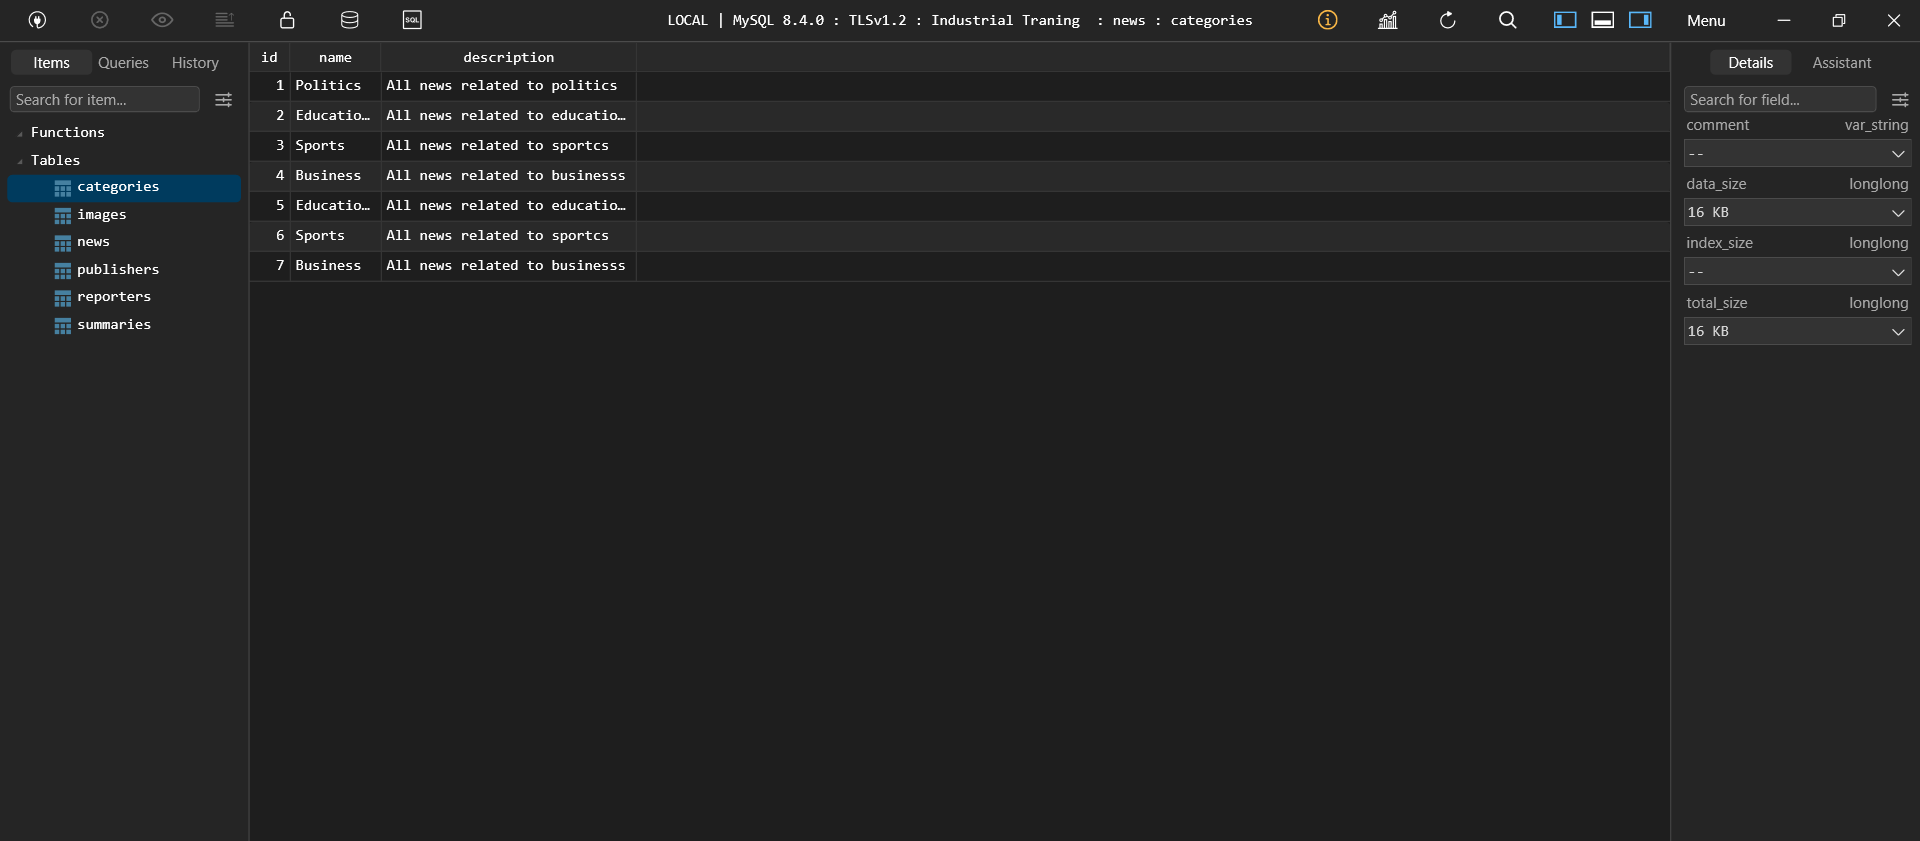
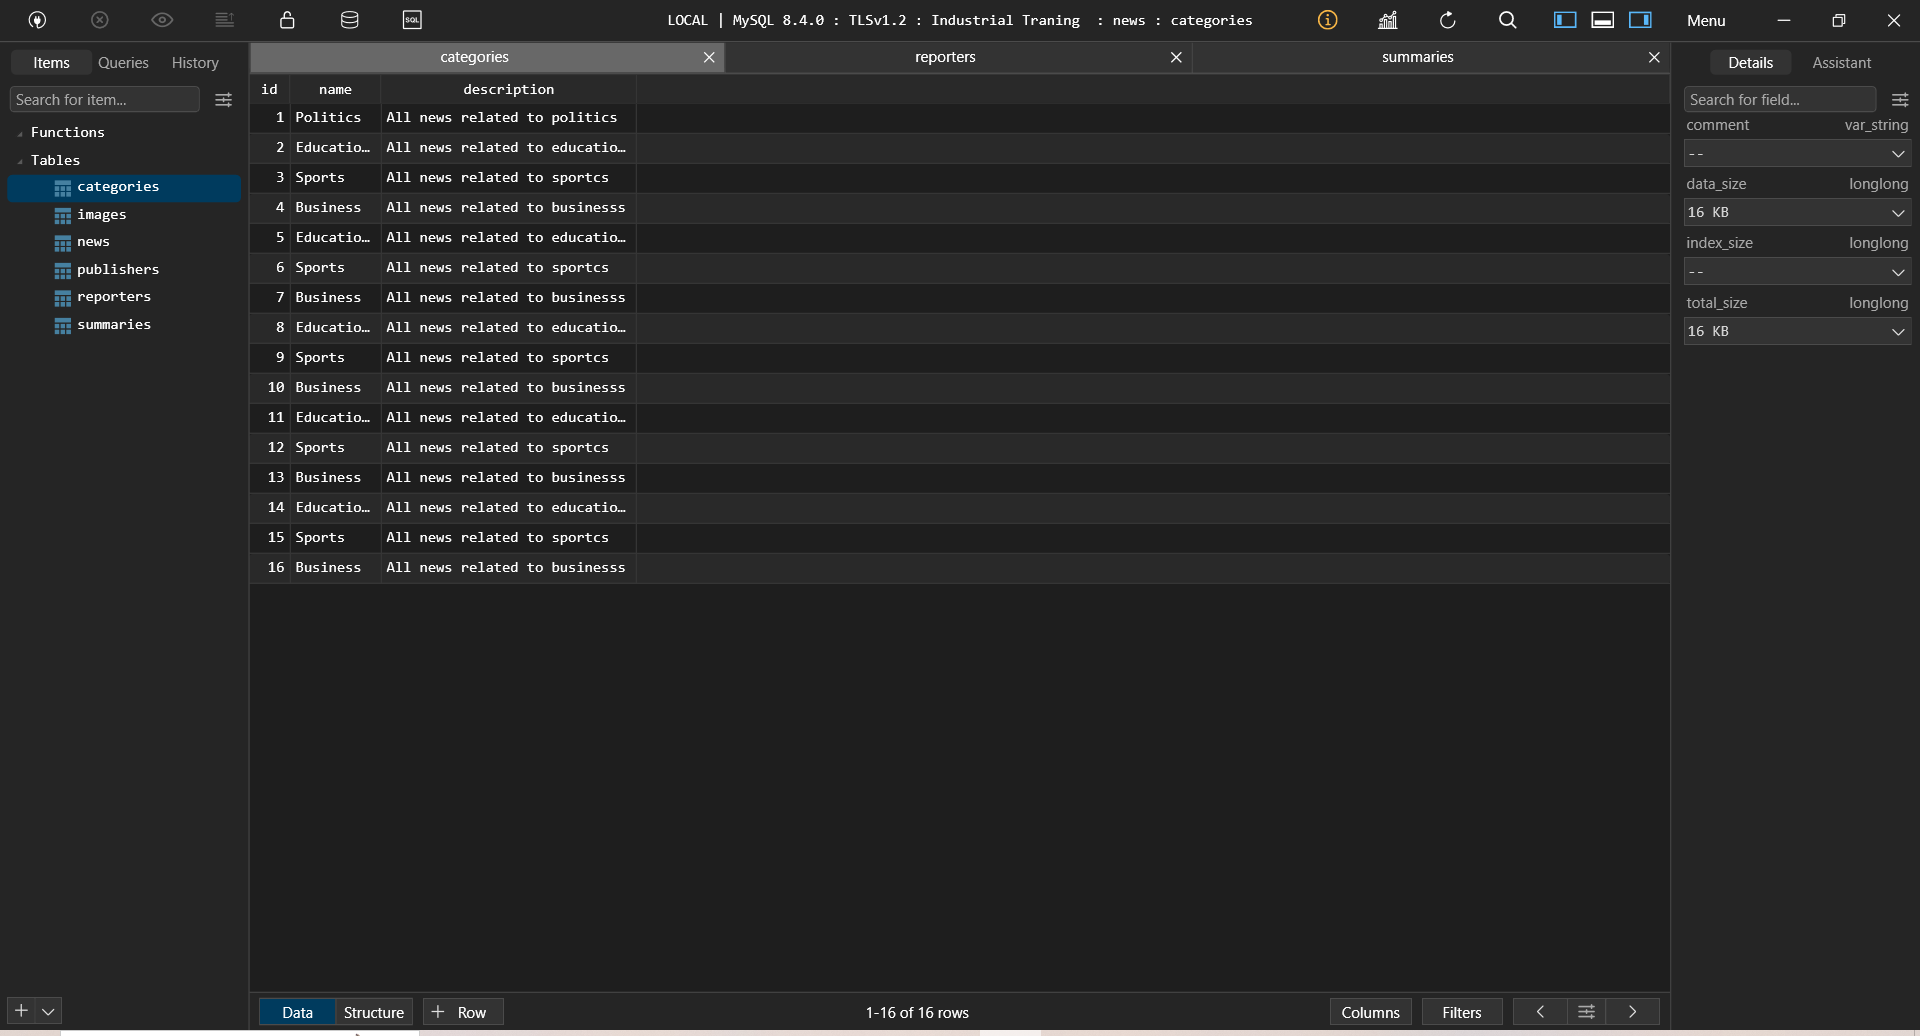
updatenews

diff --git a/session-1/database/implementation/news_insert.py b/session-1/database/implementation/news_insert.py
@@ -80,7 +80,7 @@ def insert_category(connection, name, description):
     data = (name, description)
     execute_query(connection, query, data)
 
-def insert_author(connection, name, email):
+def insert_reporters(connection, name, email):
     """
     Inserts a new author into the authors table.
 
@@ -98,13 +98,13 @@ def insert_author(connection, name, email):
     None
     """
     query = """
-    INSERT INTO authors (name, email)
+    INSERT INTO reporters (name, email)
     VALUES (%s, %s)
     """
     data = (name, email)
     execute_query(connection, query, data)
 
-def insert_editor(connection, name, email):
+def insert_publishers(connection, name, email):
     """
     Inserts a new editor into the editors table.
 
@@ -122,7 +122,7 @@ def insert_editor(connection, name, email):
     None
     """
     query = """
-    INSERT INTO editors (name, email)
+    INSERT INTO publishers (name, email)
     VALUES (%s, %s)
     """
     data = (name, email)
@@ -219,14 +219,15 @@ if __name__ == "__main__":
         insert_category(conn, "Sports", "All news related to sportcs")
         insert_category(conn, "Business", "All news related to businesss")
         #insert_author(conn, "John Doe", "test@example.com")
-        insert_author(conn, "Charlie Madigan", "@Chicago.com")
-        insert_author(conn, "Michelle Malkin", "test@example.com")
+        insert_reporters(conn, "John Doe", "test@example.com")
+        insert_reporters(conn, "John Doe", "abcd@example.com")
         # Add more insert calls for other tables
         # insert_editor(conn,"BBC"," bbc@example.com")
-        insert_editor(conn,"CNN"," bbc@example.com")
+        insert_publishers(conn,"BBC"," bbc@example.com")
+        insert_publishers(conn,"CNN"," cnn@example.com")
         # insert_news(conn,1 ,1,1 ,'2023-01-01 10:00:00',"Election 2023","This is election news","www.example.com")
-        insert_news(conn,1 ,3,2 ,'2023-01-01 11:00:00',"Election 2023","This is election news","www.example.com")
-        insert_news(conn,1 ,2,4 ,'2024-01-01 10:00:15',"Election 2023","This is election news","www.example.com")
+        insert_news(conn,1 ,1,1 ,'2023-01-01 10:00:00',"Election 2023","This is election news","www.example.com")
+        insert_news(conn,1 ,1,1 ,'2023-01-01 10:00:00',"Election 2023","This is election news","www.example.com")
         # insert_image(conn,1,"http://example.com/img1.jpg")
         insert_image(conn,1,"http://example.com/img1.jpg")
         insert_image(conn,1,"http://example.com/img1.jpg")

diff --git a/session-1/database/implementation/news_db_manager.py b/session-1/database/implementation/news_db_manager.py
@@ -154,12 +154,14 @@ if __name__ == "__main__":
     if conn is not None:      
         #create_tables(conn)
         
-        read_categories_query = "SELECT * FROM categories"
-        news_categories = execute_read_query(conn, read_categories_query)
-        print(news_categories)
+        # read_categories_query = "SELECT * FROM categories"
+        # news_categories = execute_read_query(conn, read_categories_query)
+        # print(news_categories)
 
         # read_authors_query = "SELECT * FROM authors"
         # news_authors = execute_read_query(conn, read_authors_query)
         # print(news_authors)
-
+        execute_query(conn,"""ALTER TABLE news 
+            RENAME COLUMN editor_id TO publisher_id, 
+            RENAME COLUMN author_id TO reporter_id; """)
 
